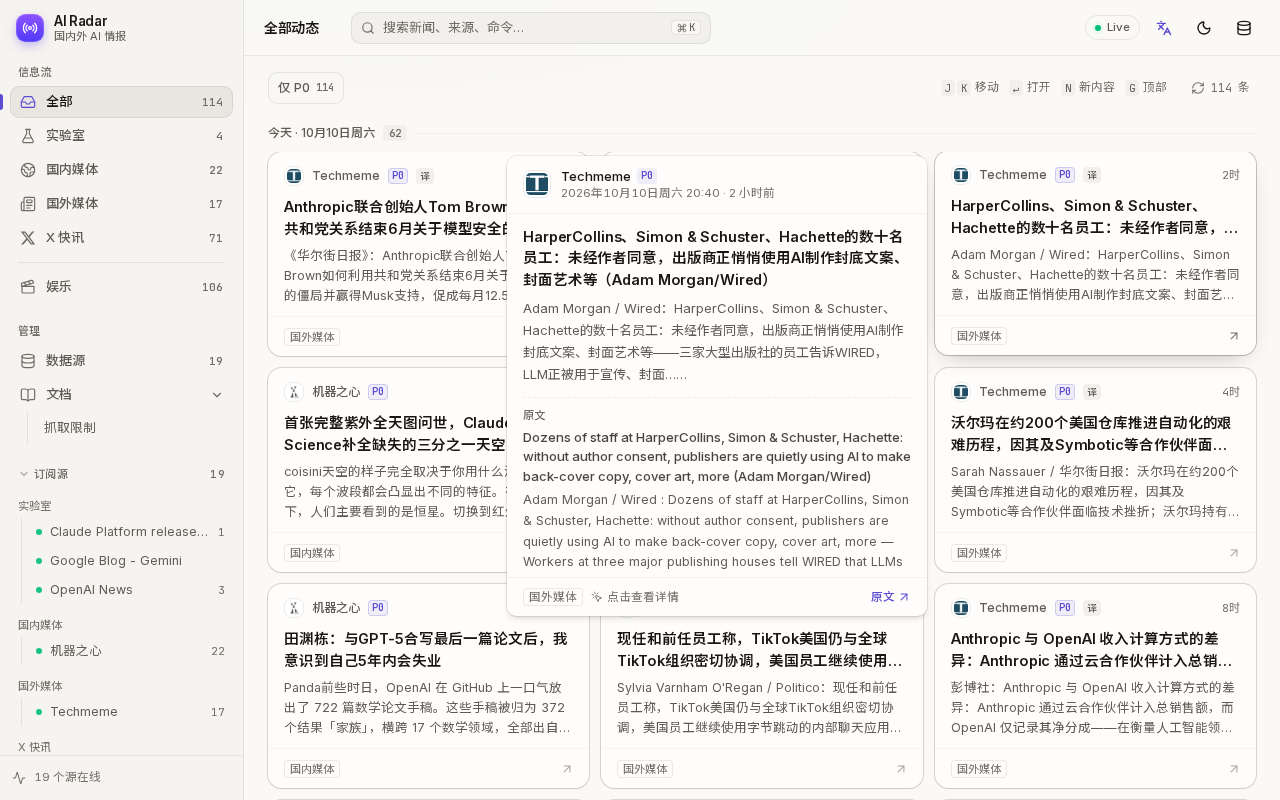
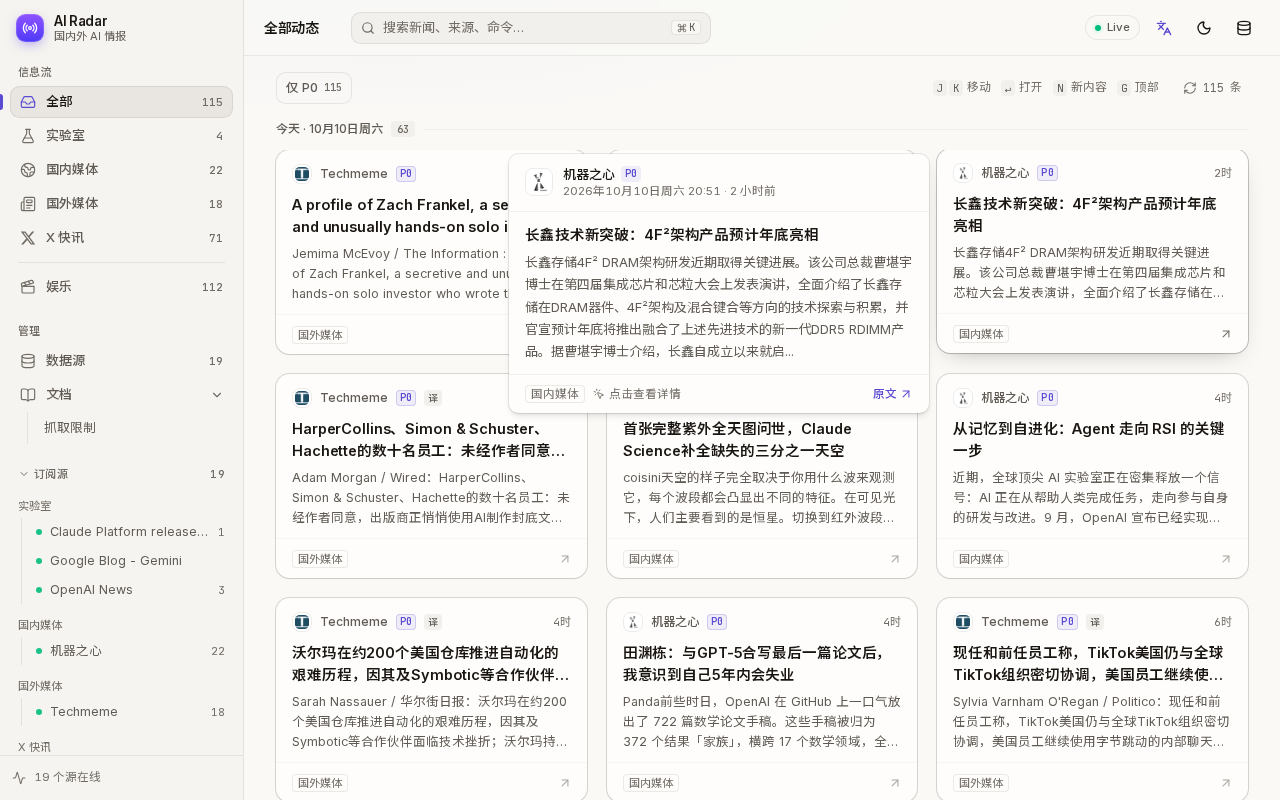
polish: feed grid gaps, padding & vertical rhythm; refresh screenshots

diff --git a/src/components/Feed.tsx b/src/components/Feed.tsx
@@ -36,7 +36,11 @@ function groupByDay(list: ItemOut[]) {
   return out;
 }
 
-const GRID = "grid grid-cols-1 gap-3 md:grid-cols-2 xl:grid-cols-3 2xl:gap-4"; // max 3 per row
+// max 3 per row; one gap value for both axes: 12px mobile · 16px md · 20px xl (1280) · 24px 2xl (1536+)
+const GRID = "grid grid-cols-1 gap-3 md:grid-cols-2 md:gap-4 xl:grid-cols-3 xl:gap-5 2xl:gap-6";
+// content side padding (mirrored by the sticky day header's negative margin): 16 · 24 (sm) · 32 (xl) · 40 (2xl)
+const PAD = "px-4 sm:px-6 xl:px-8 2xl:px-10";
+const BLEED = "-mx-4 px-4 sm:-mx-6 sm:px-6 xl:-mx-8 xl:px-8 2xl:-mx-10 2xl:px-10";
 const CARD_H = "h-[204px]";
 
 /** Equal-size card for both articles and X posts; every text block is clamped with an ellipsis. */
@@ -184,7 +188,7 @@ export default function Feed() {
   const lastFetch = Math.max(0, ...sources.filter((s) => s.enabled).map((s) => s.last_fetched ?? 0));
 
   return (
-    <div className="mx-auto w-full max-w-[1480px] px-4 pb-24 pt-4 sm:px-6">
+    <div className={cn("mx-auto w-full max-w-[1480px] pb-24 pt-4", PAD)}>
       <AnimatePresence>
         {pend.length > 0 && (
           <motion.div initial={{ y: -16, opacity: 0, scale: 0.96 }} animate={{ y: 0, opacity: 1, scale: 1 }} exit={{ y: -16, opacity: 0 }} transition={{ type: "spring", stiffness: 420, damping: 32 }}
@@ -229,9 +233,9 @@ export default function Feed() {
           </div>
         </div>
       ) : (
-        groups.map((g) => (
+        groups.map((g, gi) => (
           <section key={g.day}>
-            <div className="sticky top-14 z-10 -mx-4 flex items-center gap-2 bg-background/85 px-4 pb-2.5 pt-5 text-[12px] font-medium text-muted-foreground backdrop-blur-xl backdrop-saturate-150 sm:-mx-6 sm:px-6">
+            <div className={cn("sticky top-14 z-10 flex items-center gap-2 bg-background/85 pb-3 text-[12px] font-medium text-muted-foreground backdrop-blur-xl backdrop-saturate-150", gi === 0 ? "pt-4" : "pt-7", BLEED)}>
               {g.day}<span className="rounded-[4px] bg-secondary px-1.5 font-mono text-[10.5px] leading-4 tabular-nums text-faint">{dayCount.get(g.day) ?? g.items.length}</span><span className="h-px flex-1 bg-border/60" />
             </div>
             <div className={GRID}>
@@ -243,7 +247,7 @@ export default function Feed() {
           </section>
         ))
       )}
-      {!loading && shown < view.length && <div ref={sentinel} className={cn(GRID, "mt-3")}>{Array.from({ length: 4 }, (_, i) => <Skeleton key={i} className={cn(CARD_H, "rounded-xl")} />)}</div>}
+      {!loading && shown < view.length && <div ref={sentinel} className={cn(GRID, "mt-3 md:mt-4 xl:mt-5 2xl:mt-6")}>{Array.from({ length: 4 }, (_, i) => <Skeleton key={i} className={cn(CARD_H, "rounded-xl")} />)}</div>}
 
       <AnimatePresence>
         {showTop && (
